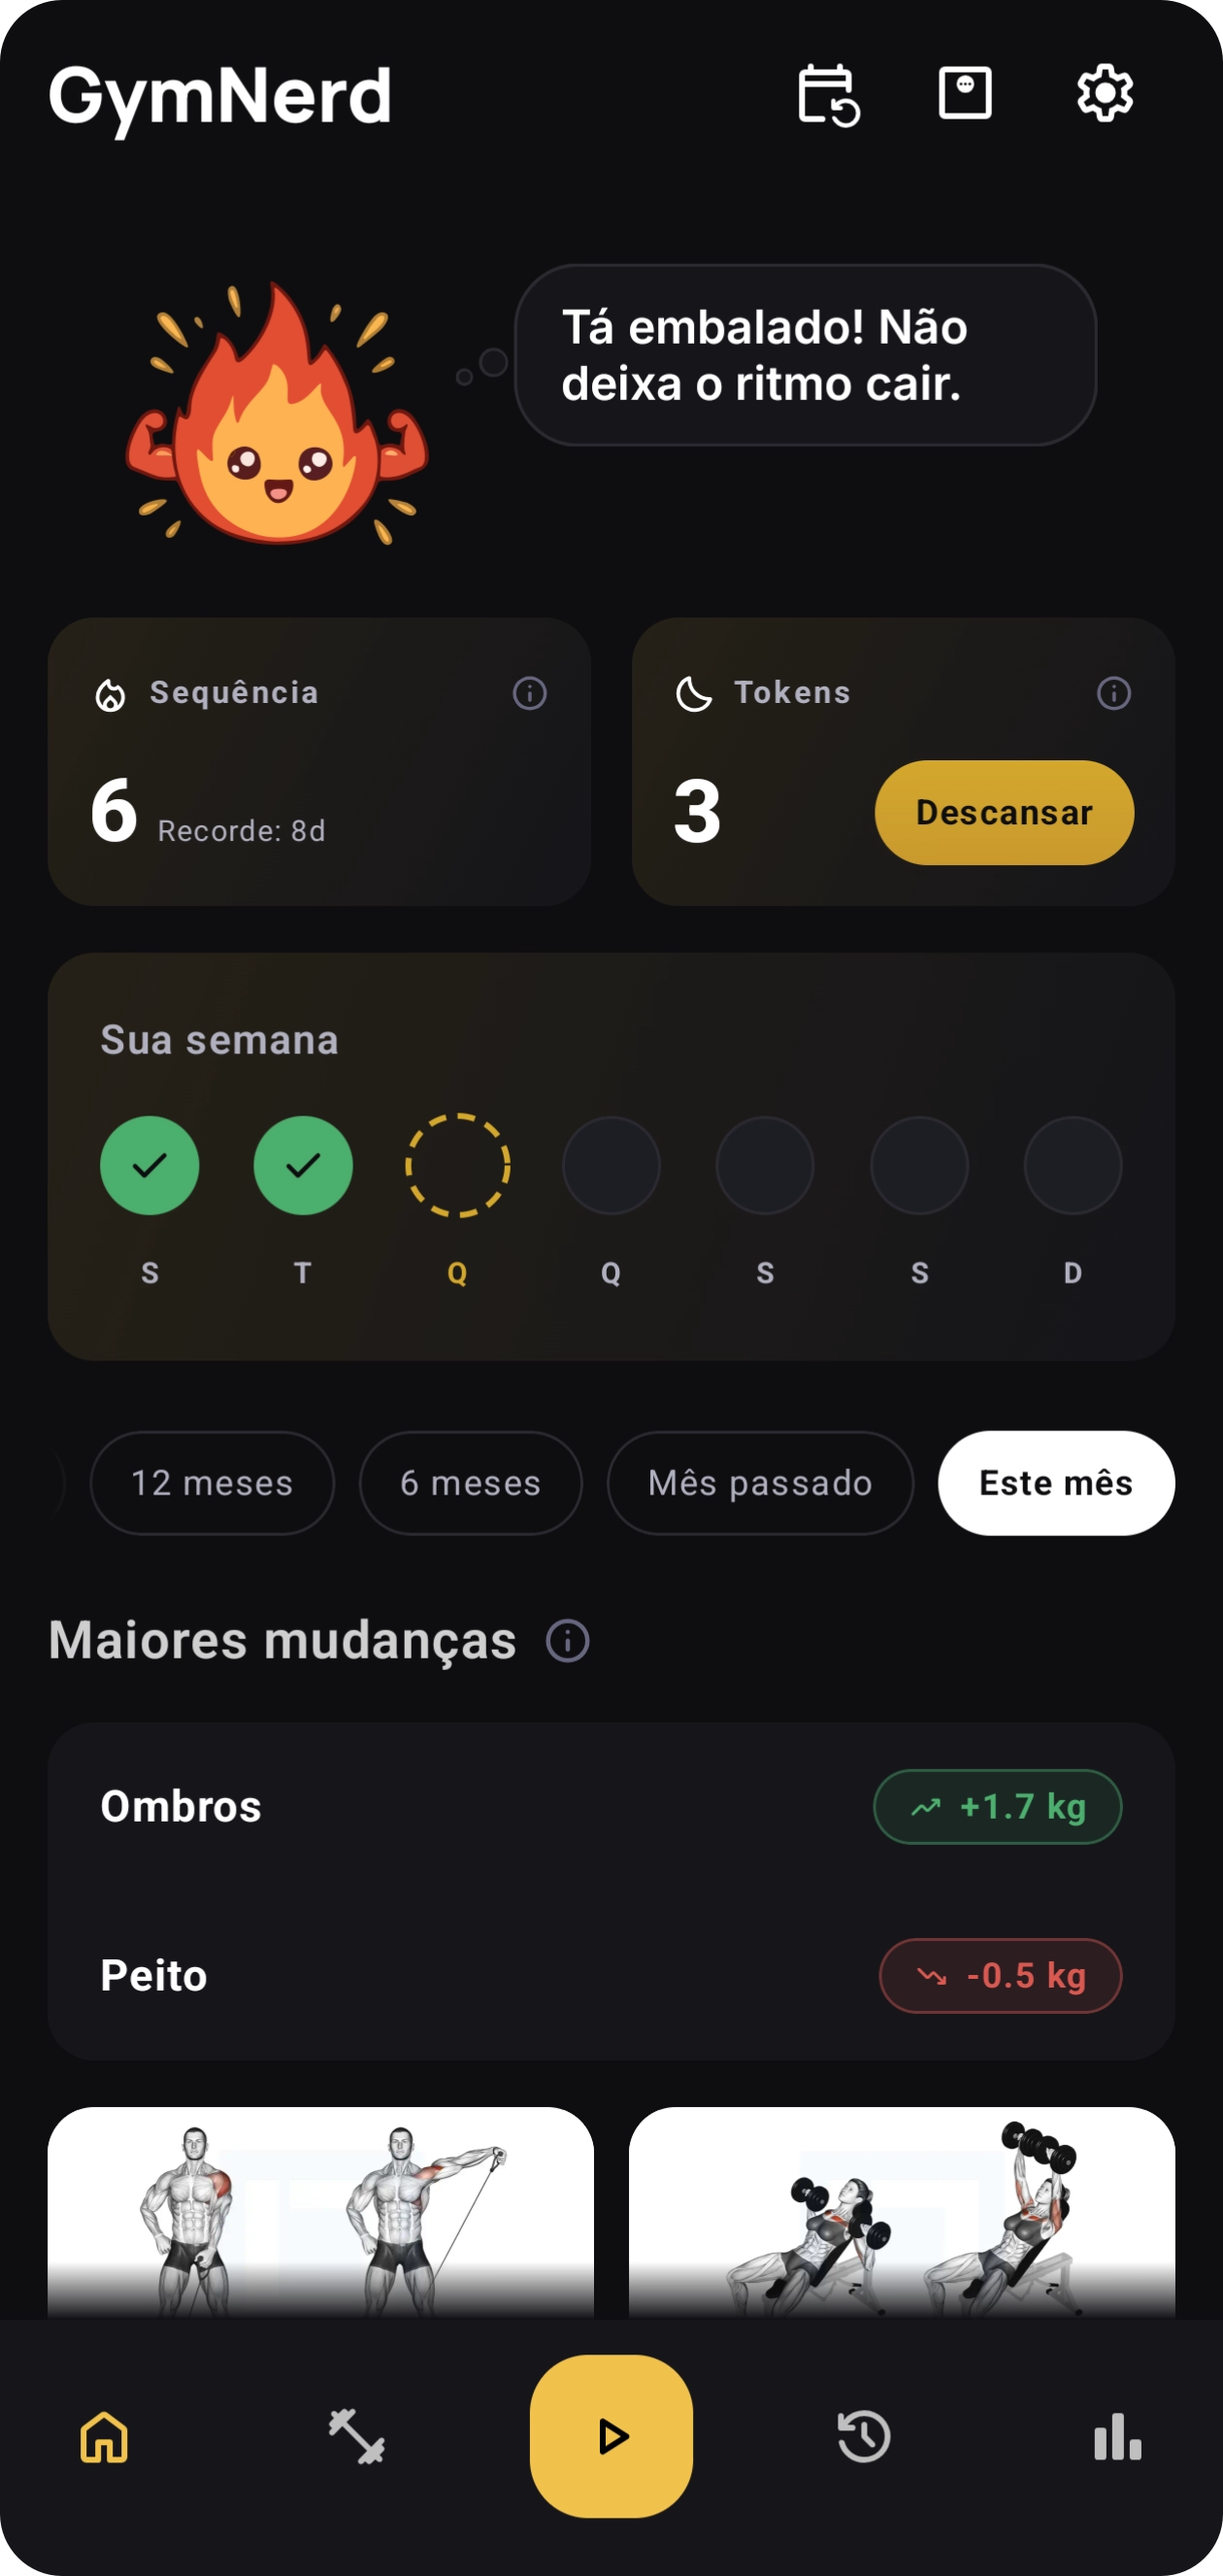
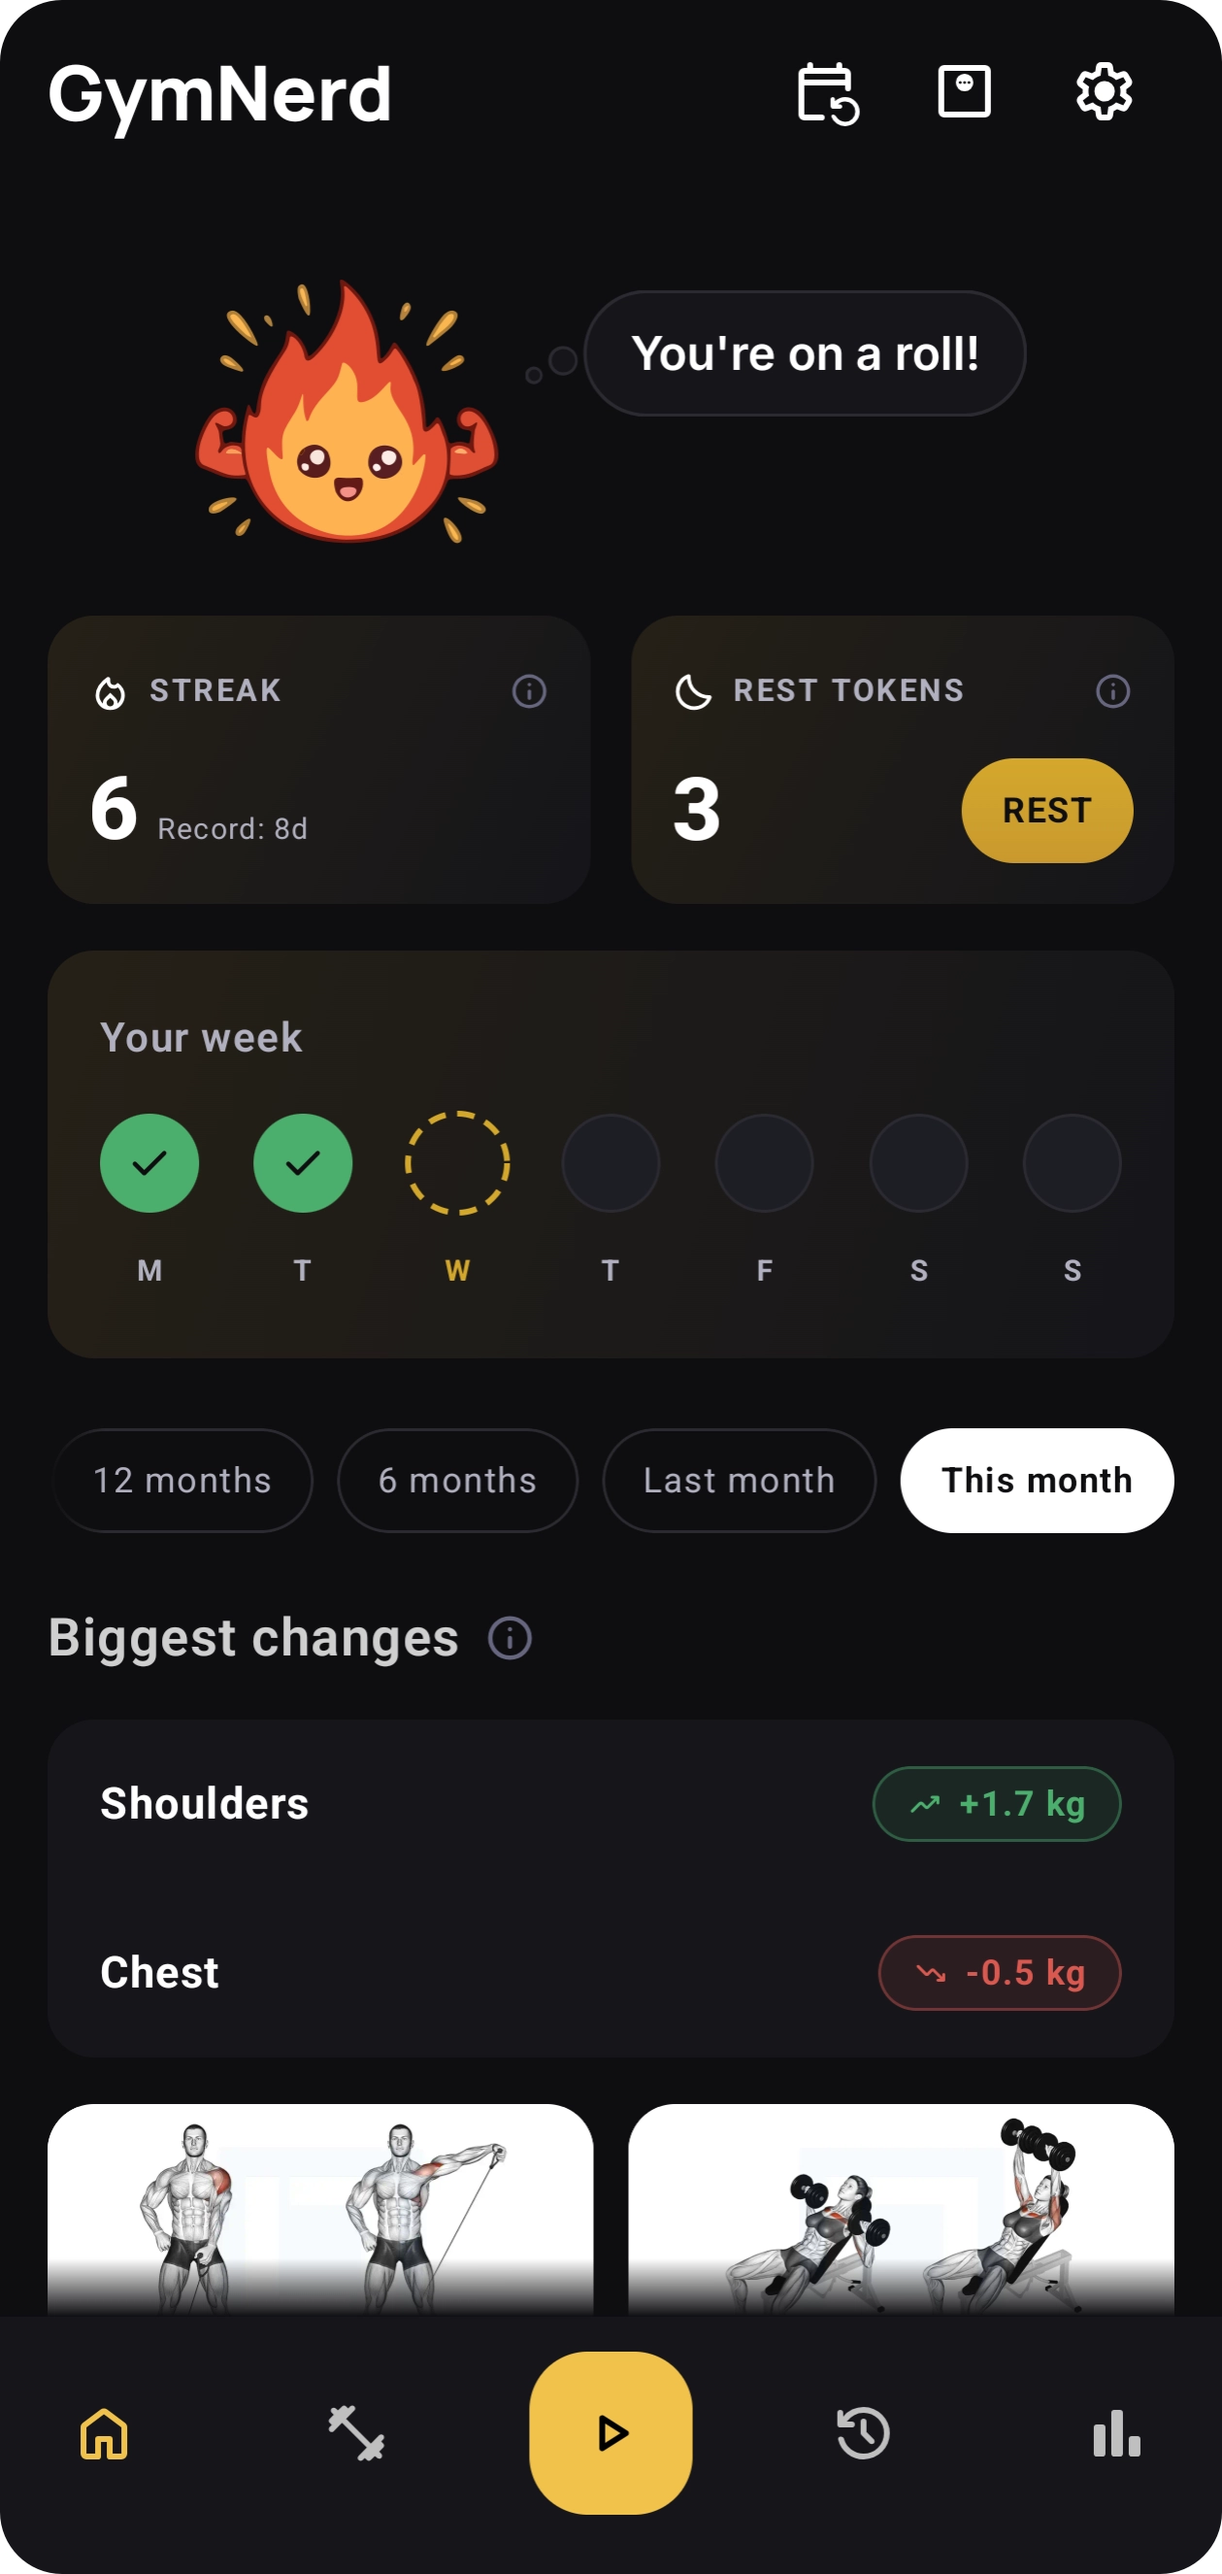
more

diff --git a/gymnerd/index.html b/gymnerd/index.html
@@ -241,8 +241,7 @@
 		}
 
 		/* Glow behind the dark hero image so it separates from the dark page. */
-		.hero .media::before,
-		.hero .media::after {
+		.hero .media::before {
 			content: "";
 			position: absolute;
 			top: 50%;
@@ -255,29 +254,8 @@
 			width: 90%;
 			aspect-ratio: 1;
 			translate: -50% -50%;
-			background: conic-gradient(from 0deg, var(--primary), var(--outline), #8A6A1A, var(--surface-2), var(--primary));
-			filter: blur(70px);
-			opacity: .6;
-			animation: hero-spin 18s linear infinite;
-		}
-
-		.hero .media::after {
-			width: 70%;
-			aspect-ratio: 1;
-			translate: -50% -50%;
-			border: 2px dashed rgba(242, 194, 75, .35);
-			animation: hero-spin 40s linear infinite reverse;
-		}
-
-		@keyframes hero-spin {
-			to { rotate: 360deg; }
-		}
-
-		@media (prefers-reduced-motion: reduce) {
-			.hero .media::before,
-			.hero .media::after {
-				animation: none;
-			}
+			background: radial-gradient(circle, #E4E5E8 0%, rgba(228, 229, 232, .6) 45%, transparent 70%);
+			filter: blur(30px);
 		}
 
 		.hero .media img {
@@ -289,7 +267,7 @@
 			max-height: 70vh;
 			height: auto;
 			object-fit: contain;
-			filter: drop-shadow(0 0 1px rgba(242, 194, 75, .6)) drop-shadow(0 20px 40px rgba(0, 0, 0, .5));
+			filter: drop-shadow(0 0 1px #E4E5E8) drop-shadow(0 20px 40px rgba(0, 0, 0, .5));
 		}
 
 		/* sections */
@@ -345,6 +323,10 @@
 			width: 100%;
 			display: flex;
 			justify-content: center;
+			padding: clamp(8px, 2vw, 16px);
+			border-radius: var(--radius-l);
+			background: #E4E5E8;
+			box-shadow: 0 24px 60px rgba(0, 0, 0, .45);
 		}
 
 		/* closing */
@@ -478,8 +460,13 @@
 			}
 
 			.block .wrap {
-				grid-template-columns: 1fr 1fr;
-				gap: 88px;
+				max-width: 1440px;
+				grid-template-columns: 1.8fr 1fr;
+				gap: 56px;
+			}
+
+			.block.flip .wrap {
+				grid-template-columns: 1fr 1.8fr;
 			}
 
 			.block.flip .media {
